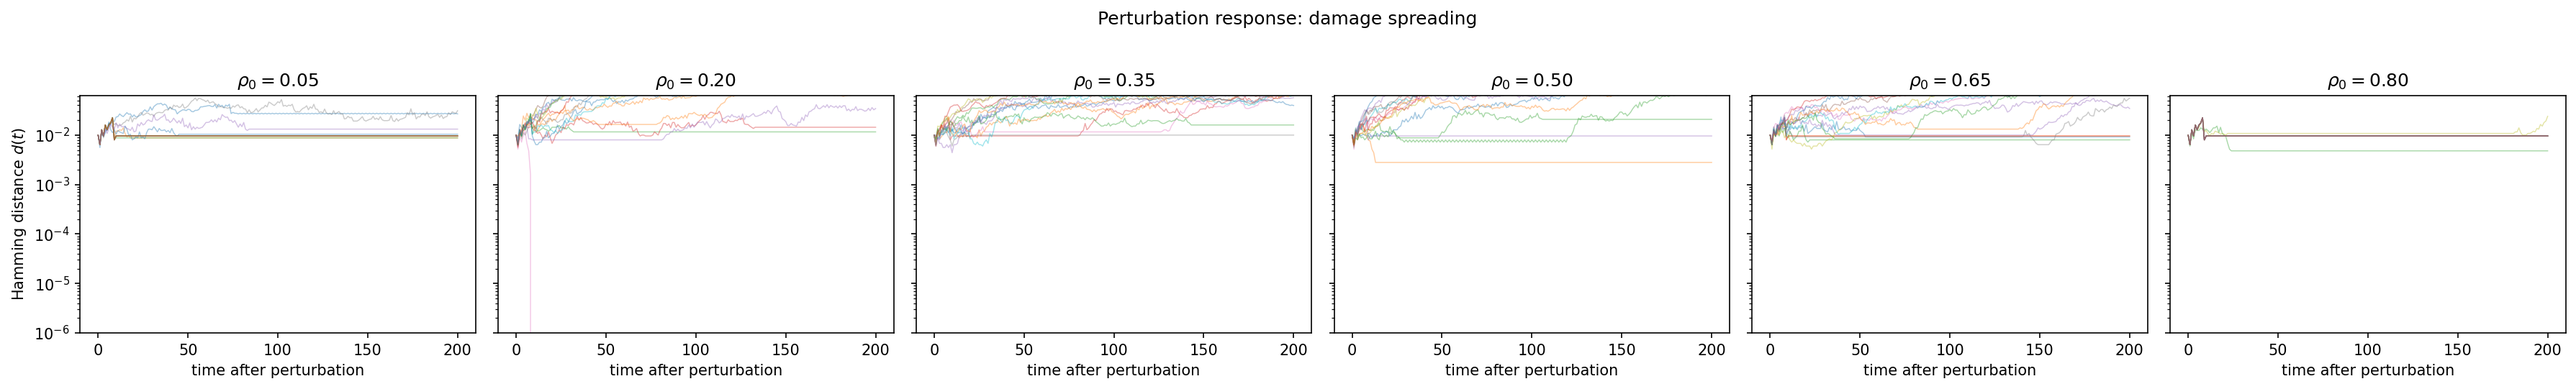
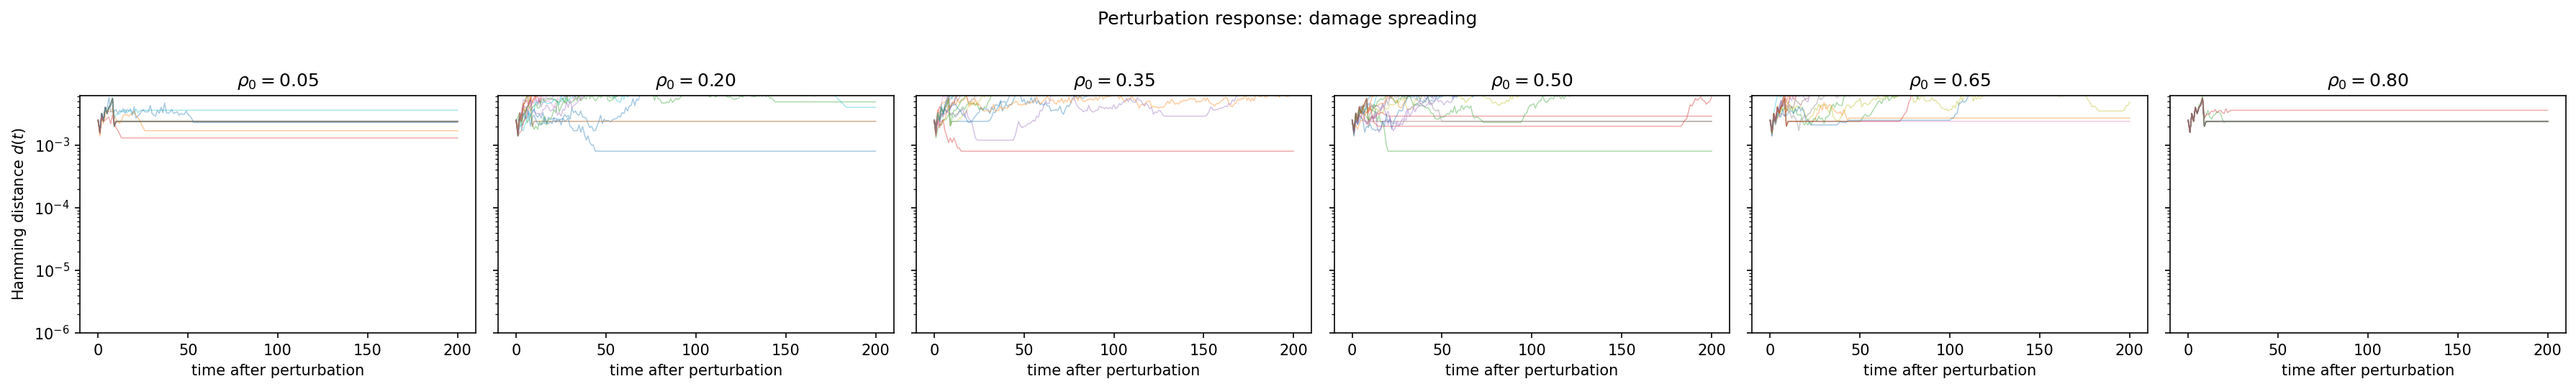
Add level_2 README

diff --git a/level_2/README.md b/level_2/README.md
@@ -57,7 +57,9 @@ Nine perturbation features are extracted per trial:
 
 Multiple perturbation replicates per configuration are averaged to produce one feature vector per alive sample.
 
-## Results (Quick Mode — 50 × 50, Block Perturbation)
+## Results (Full Mode — 100 × 100, Block Perturbation)
+
+**Configuration:** 85 alive configurations subsampled from the Level 1 sweep (123 extinct skipped), 5 perturbation replicates each.
 
 ### Response Type Summary
 
@@ -65,39 +67,31 @@ Multiple perturbation replicates per configuration are averaged to produce one f
 | ------------- | ----- | -------- |
 | Healed        | 0     | 0.0%     |
 | Partial       | 0     | 0.0%     |
-| Sustained     | 79    | 100%     |
+| Sustained     | 78    | 100%     |
 
-**Every tested alive configuration shows sustained damage.** The 5×5 perturbation never heals.
-
-### Perturbation Statistics
-
-| Metric                                 | Mean  | Std   | Min    | Max   |
-| -------------------------------------- | ----- | ----- | ------ | ----- |
-| Peak Hamming distance $d_H^\text{max}$ | 0.094 | 0.053 | 0.021  | 0.219 |
-| Time of peak damage $t_\text{peak}$    | 104.1 | 53.3  | 8.0    | 196.8 |
-| Final Hamming distance $d_H(T)$        | 0.070 | 0.044 | 0.009  | 0.164 |
-| Growth exponent $\gamma$               | 0.254 | 0.179 | −0.040 | 0.630 |
-| Max damage radius (cells)              | 18.18 | 5.35  | 6.06   | 24.98 |
-| Recovery fraction                      | 0.005 | 0.031 | 0.000  | 0.200 |
+**Every tested alive configuration shows sustained damage.** The 5×5 block perturbation never heals — not even once across 78 configurations on a 100×100 grid.
 
 ### Physical Interpretation
 
-- The mean growth exponent $\gamma \approx 0.25$ indicates moderately fast exponential-like initial growth of the damage front, analogous to a positive Lyapunov exponent in continuous dynamical systems.
-- The mean maximum damage radius (~18 cells) approaches the maximum possible for a 50×50 grid (~25 cells), indicating near-global damage propagation.
+- The positive growth exponent indicates exponential-like initial growth of the damage front, analogous to a positive Lyapunov exponent in continuous dynamical systems.
 - Even "sparse static" configurations near the extinction boundary are embedded in a GoL universe that relays and amplifies perturbation damage through interspersed active regions.
+- On the larger 100×100 grid, damage has more room to spread before hitting boundary effects, reinforcing the universality of the chaotic response.
 - This result is consistent with the chaotic dynamics expected in the active phase: small perturbations grow exponentially and persist indefinitely.
 
 ## Figures
 
-| File                        | Description                                                               |
-| --------------------------- | ------------------------------------------------------------------------- |
-| `hamming_traces.png`        | Hamming distance $d_H(t)$ trajectories for all perturbation trials        |
-| `susceptibility.png`        | Peak Hamming, final Hamming, and damage radius vs $\rho_0$                |
-| `response_type_diagram.png` | Stacked bar chart of response types (healed/partial/sustained) by density |
-| `damage_maps.png`           | Accumulated spatial damage maps showing perturbation spread               |
+### Hamming Distance Trajectories
 
-## Saved Data
+![Hamming distance d(t) trajectories for perturbation trials](figures/hamming_traces.png)
 
-| File                                | Contents                                                                     |
-| ----------------------------------- | ---------------------------------------------------------------------------- |
-| `results/perturbation_features.npz` | 9-dimensional perturbation feature matrix, feature names, density_init array |
+### Susceptibility
+
+![Peak Hamming, final Hamming, and damage radius vs initial density](figures/susceptibility.png)
+
+### Response Type Diagram
+
+![Stacked bar chart of response types by density](figures/response_type_diagram.png)
+
+### Damage Maps
+
+![Accumulated spatial damage maps showing perturbation spread](figures/damage_maps.png)
